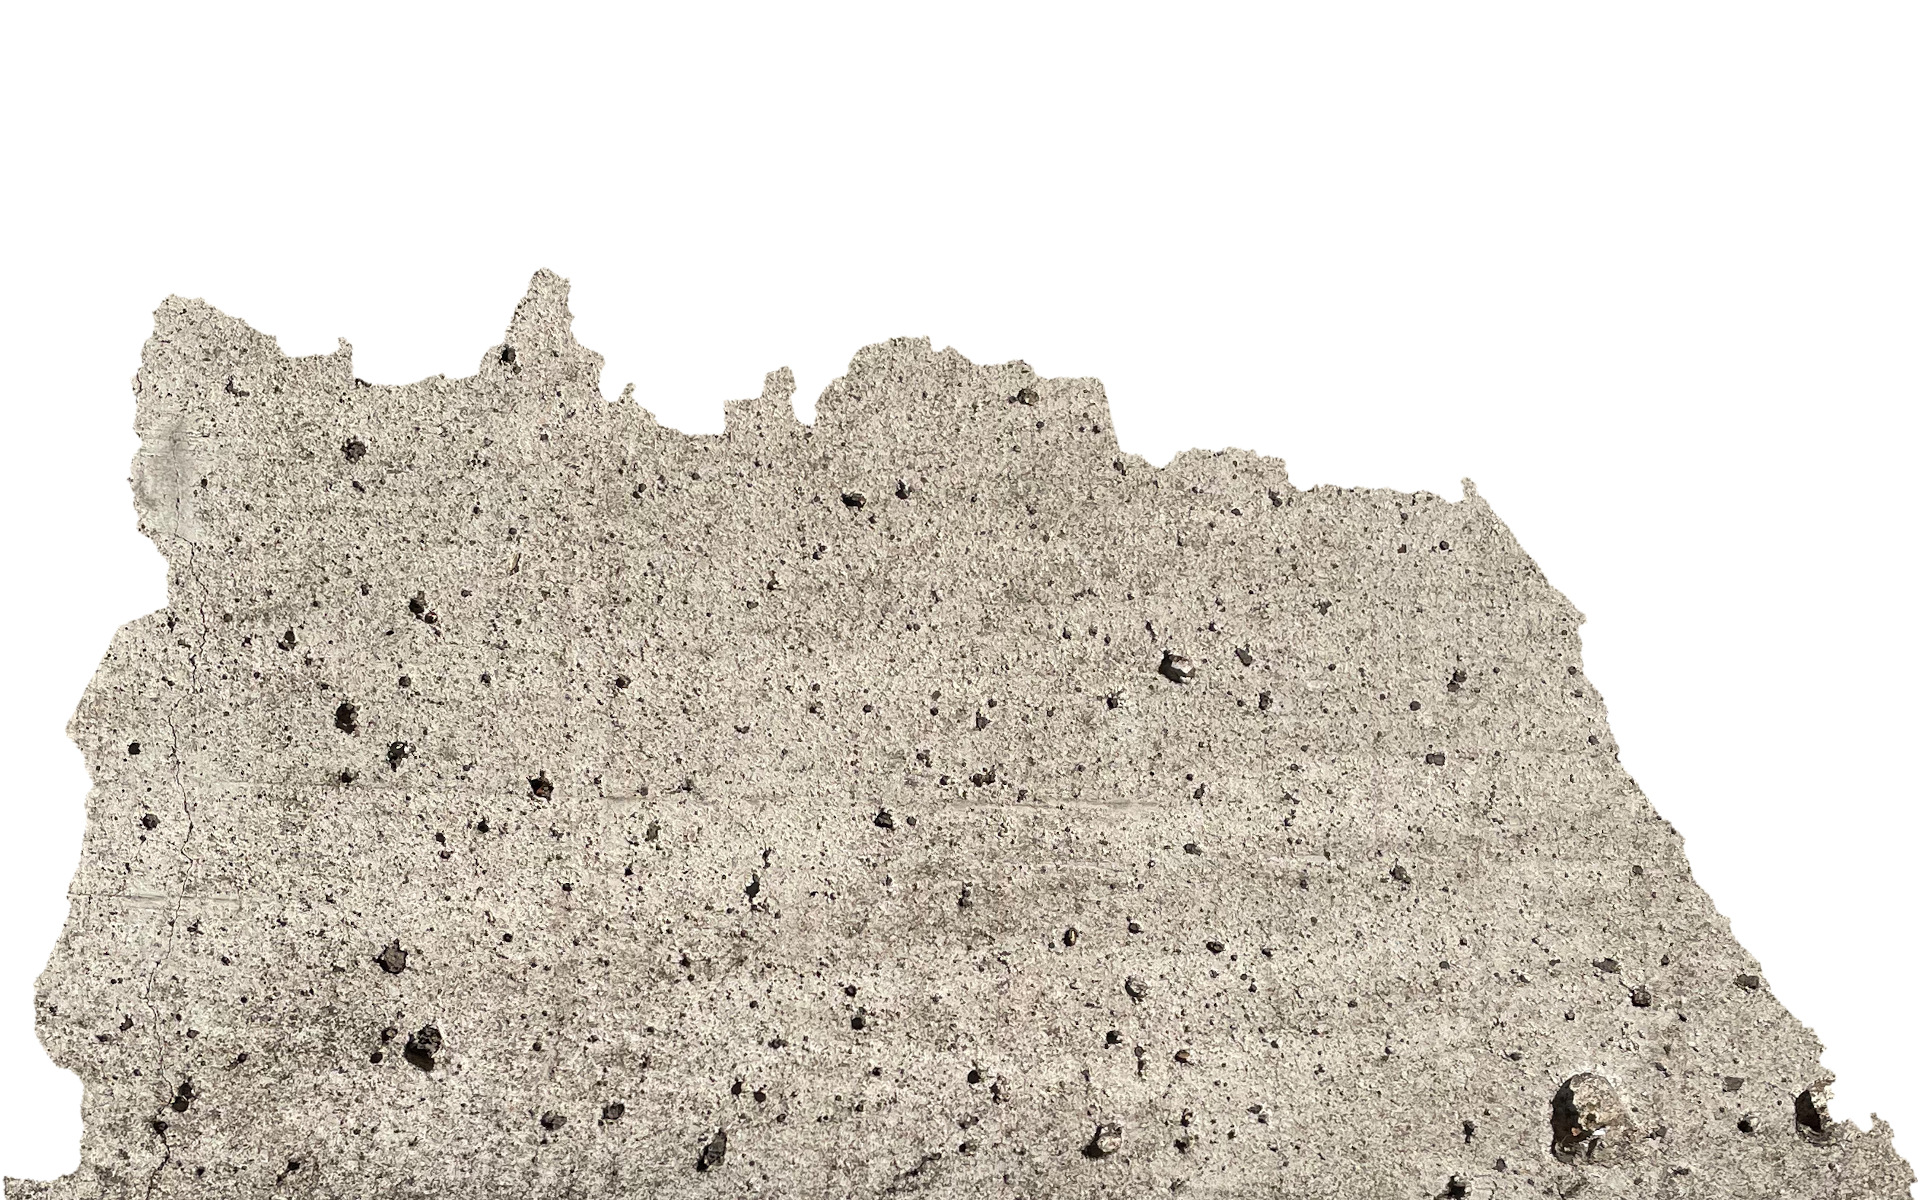
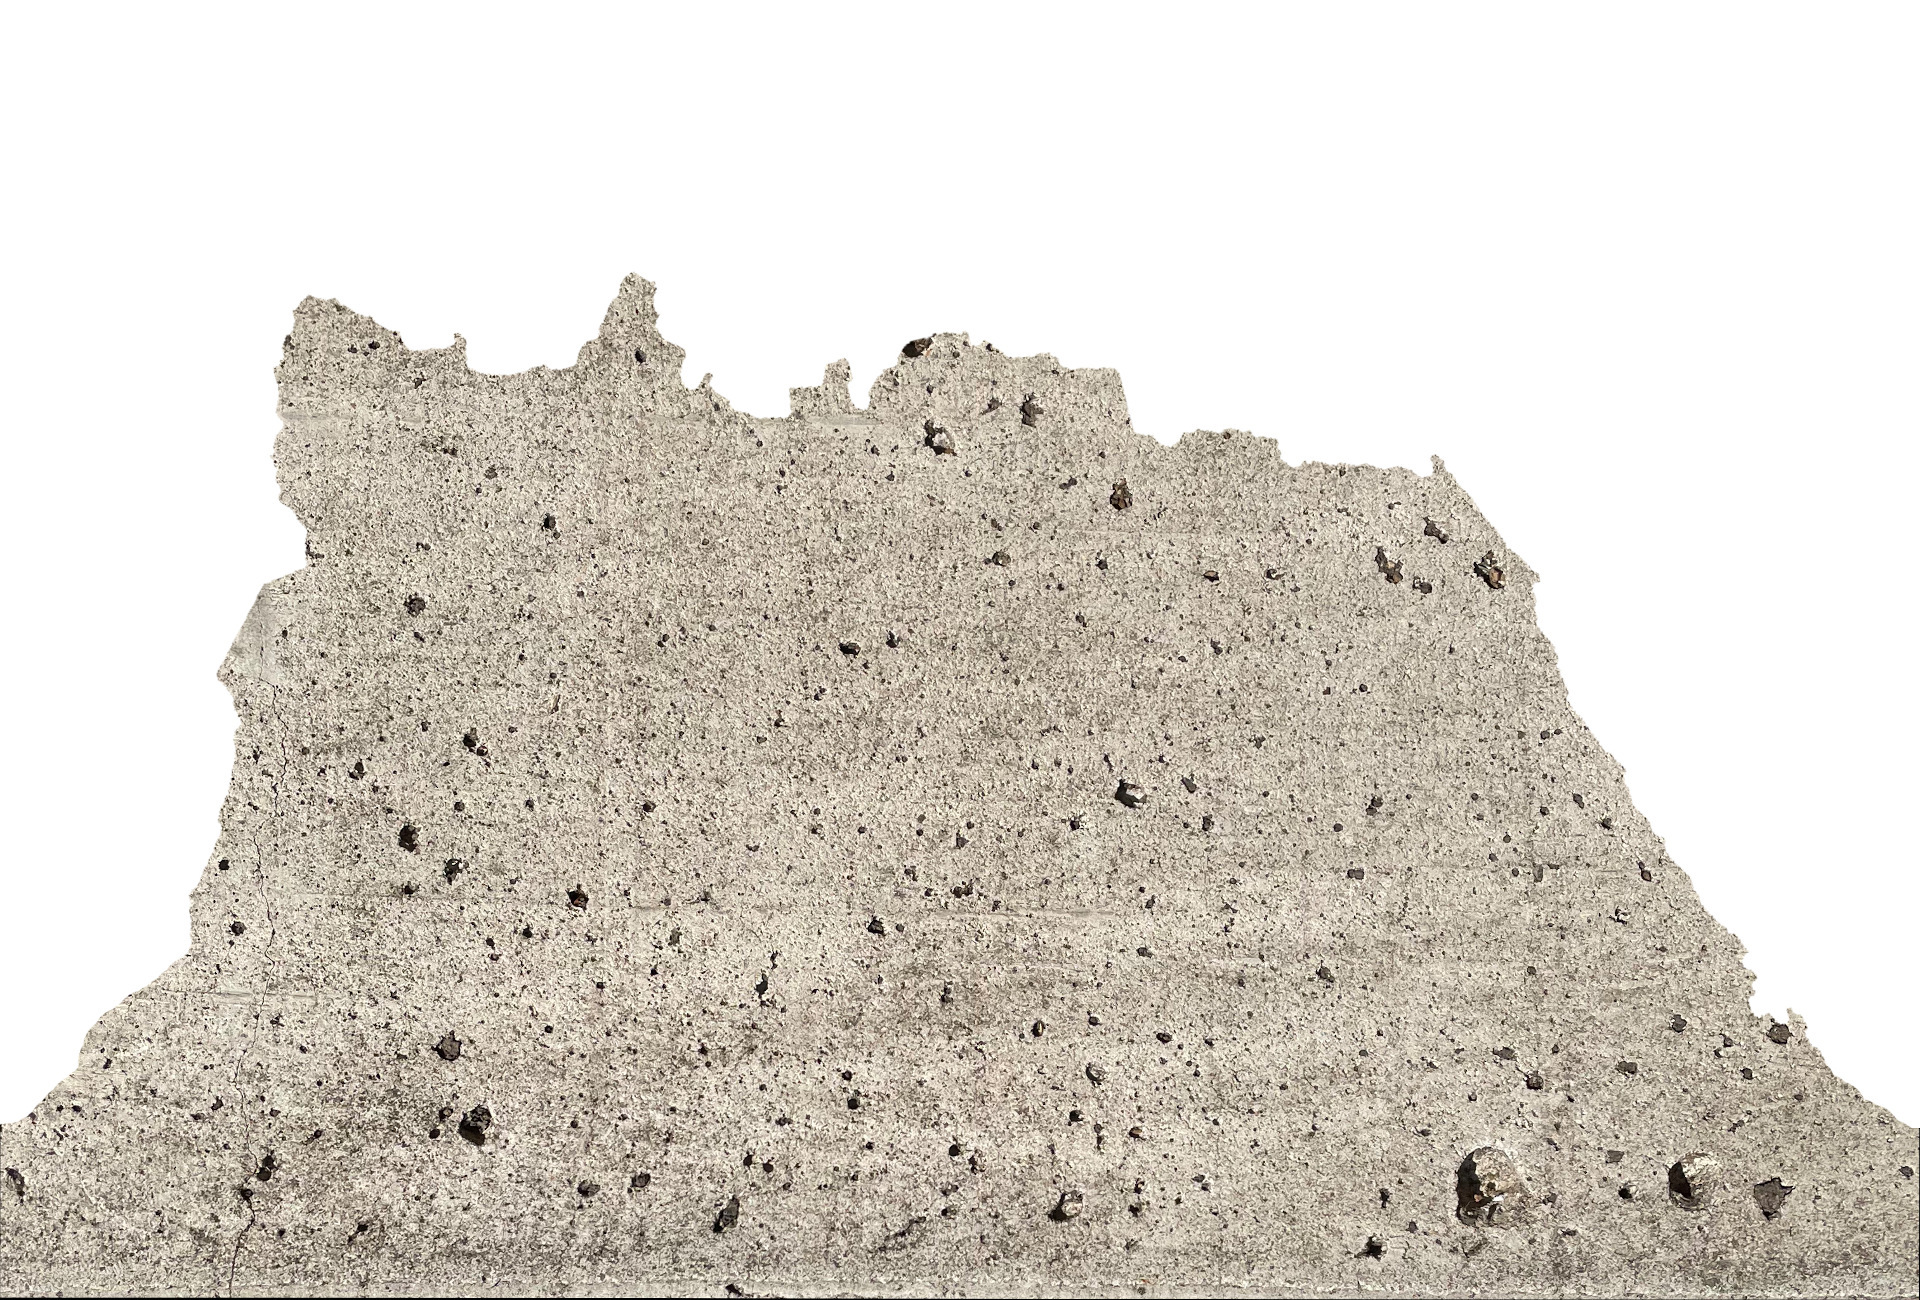
adjust new map image

diff --git a/js/main.js b/js/main.js
@@ -1,8 +1,9 @@
 import * as THREE from './three/three.module.js';
 import { Scroll } from './Scroll.js';
+import { Strip } from './Strip.js';
 
 const CAM_FOV = 150;
-const LAYERS_Y_OFFSET = -window.innerHeight / 2.0 - Scroll.STRIP_HEIGHT;
+const LAYERS_Y_OFFSET = -window.innerHeight / 2.0 - (Scroll.STRIP_HEIGHT + 0.5 * Strip.AMPLITUDE * Scroll.STRIP_HEIGHT);
 const scene = new THREE.Scene();
 const camera = new THREE.PerspectiveCamera(CAM_FOV, window.innerWidth / window.innerHeight, 1, 150);
 const renderer = new THREE.WebGLRenderer({ antialias: true });
@@ -85,7 +86,7 @@ const onScroll = (event) => {
   scene.position.setY(Math.max(LAYERS_Y_OFFSET, scene.position.y + deltaY));
   window.mScroll.update(scene.position.y);
 
-  const shadowOpacity = 0.33 * scene.position.y / window.innerHeight;
+  const shadowOpacity = 2 * (scene.position.y - LAYERS_Y_OFFSET) / window.innerHeight;
   const infoOpacity = 1.0 - (2 * (scene.position.y - LAYERS_Y_OFFSET) / window.innerHeight);
 
   mShadowDiv.style.opacity = Math.max(0, Math.min(1, shadowOpacity));

diff --git a/js/Strip.js b/js/Strip.js
@@ -31,7 +31,7 @@ class Strip {
 
     const mMesh = new THREE.Mesh(new THREE.ShapeGeometry(mShape), new THREE.MeshBasicMaterial());
 
-    mMesh.position.set(0, stripHeight - Strip.SPACER);
+    mMesh.position.set(0, 0.5 * Strip.AMPLITUDE * stripHeight);
 
     return mMesh;
   }
@@ -80,7 +80,8 @@ class Strip {
       const y_noise = Strip.NOISE.noise2D(x / Strip.DIVERSITY_X, yidx / Strip.DIVERSITY_Y);
       const y_noise_h = Strip.NOISE.noise2D(Strip.DIVERSITY_X_HIGH_FACTOR * x / Strip.DIVERSITY_X, yidx / Strip.DIVERSITY_Y);
 
-      const y = (yidx === 0) ? 0 : height * Strip.AMPLITUDE * (y_noise + Strip.DIVERSITY_X_HIGH_AMP * y_noise_h);
+      const firstLayerDamp = (yidx === 0) ? 0.5 : 1.0;
+      const y = firstLayerDamp * height * Strip.AMPLITUDE * (y_noise + Strip.DIVERSITY_X_HIGH_AMP * y_noise_h);
       mShape.lineTo(x, height + y - Strip.SPACER);
     }
 
